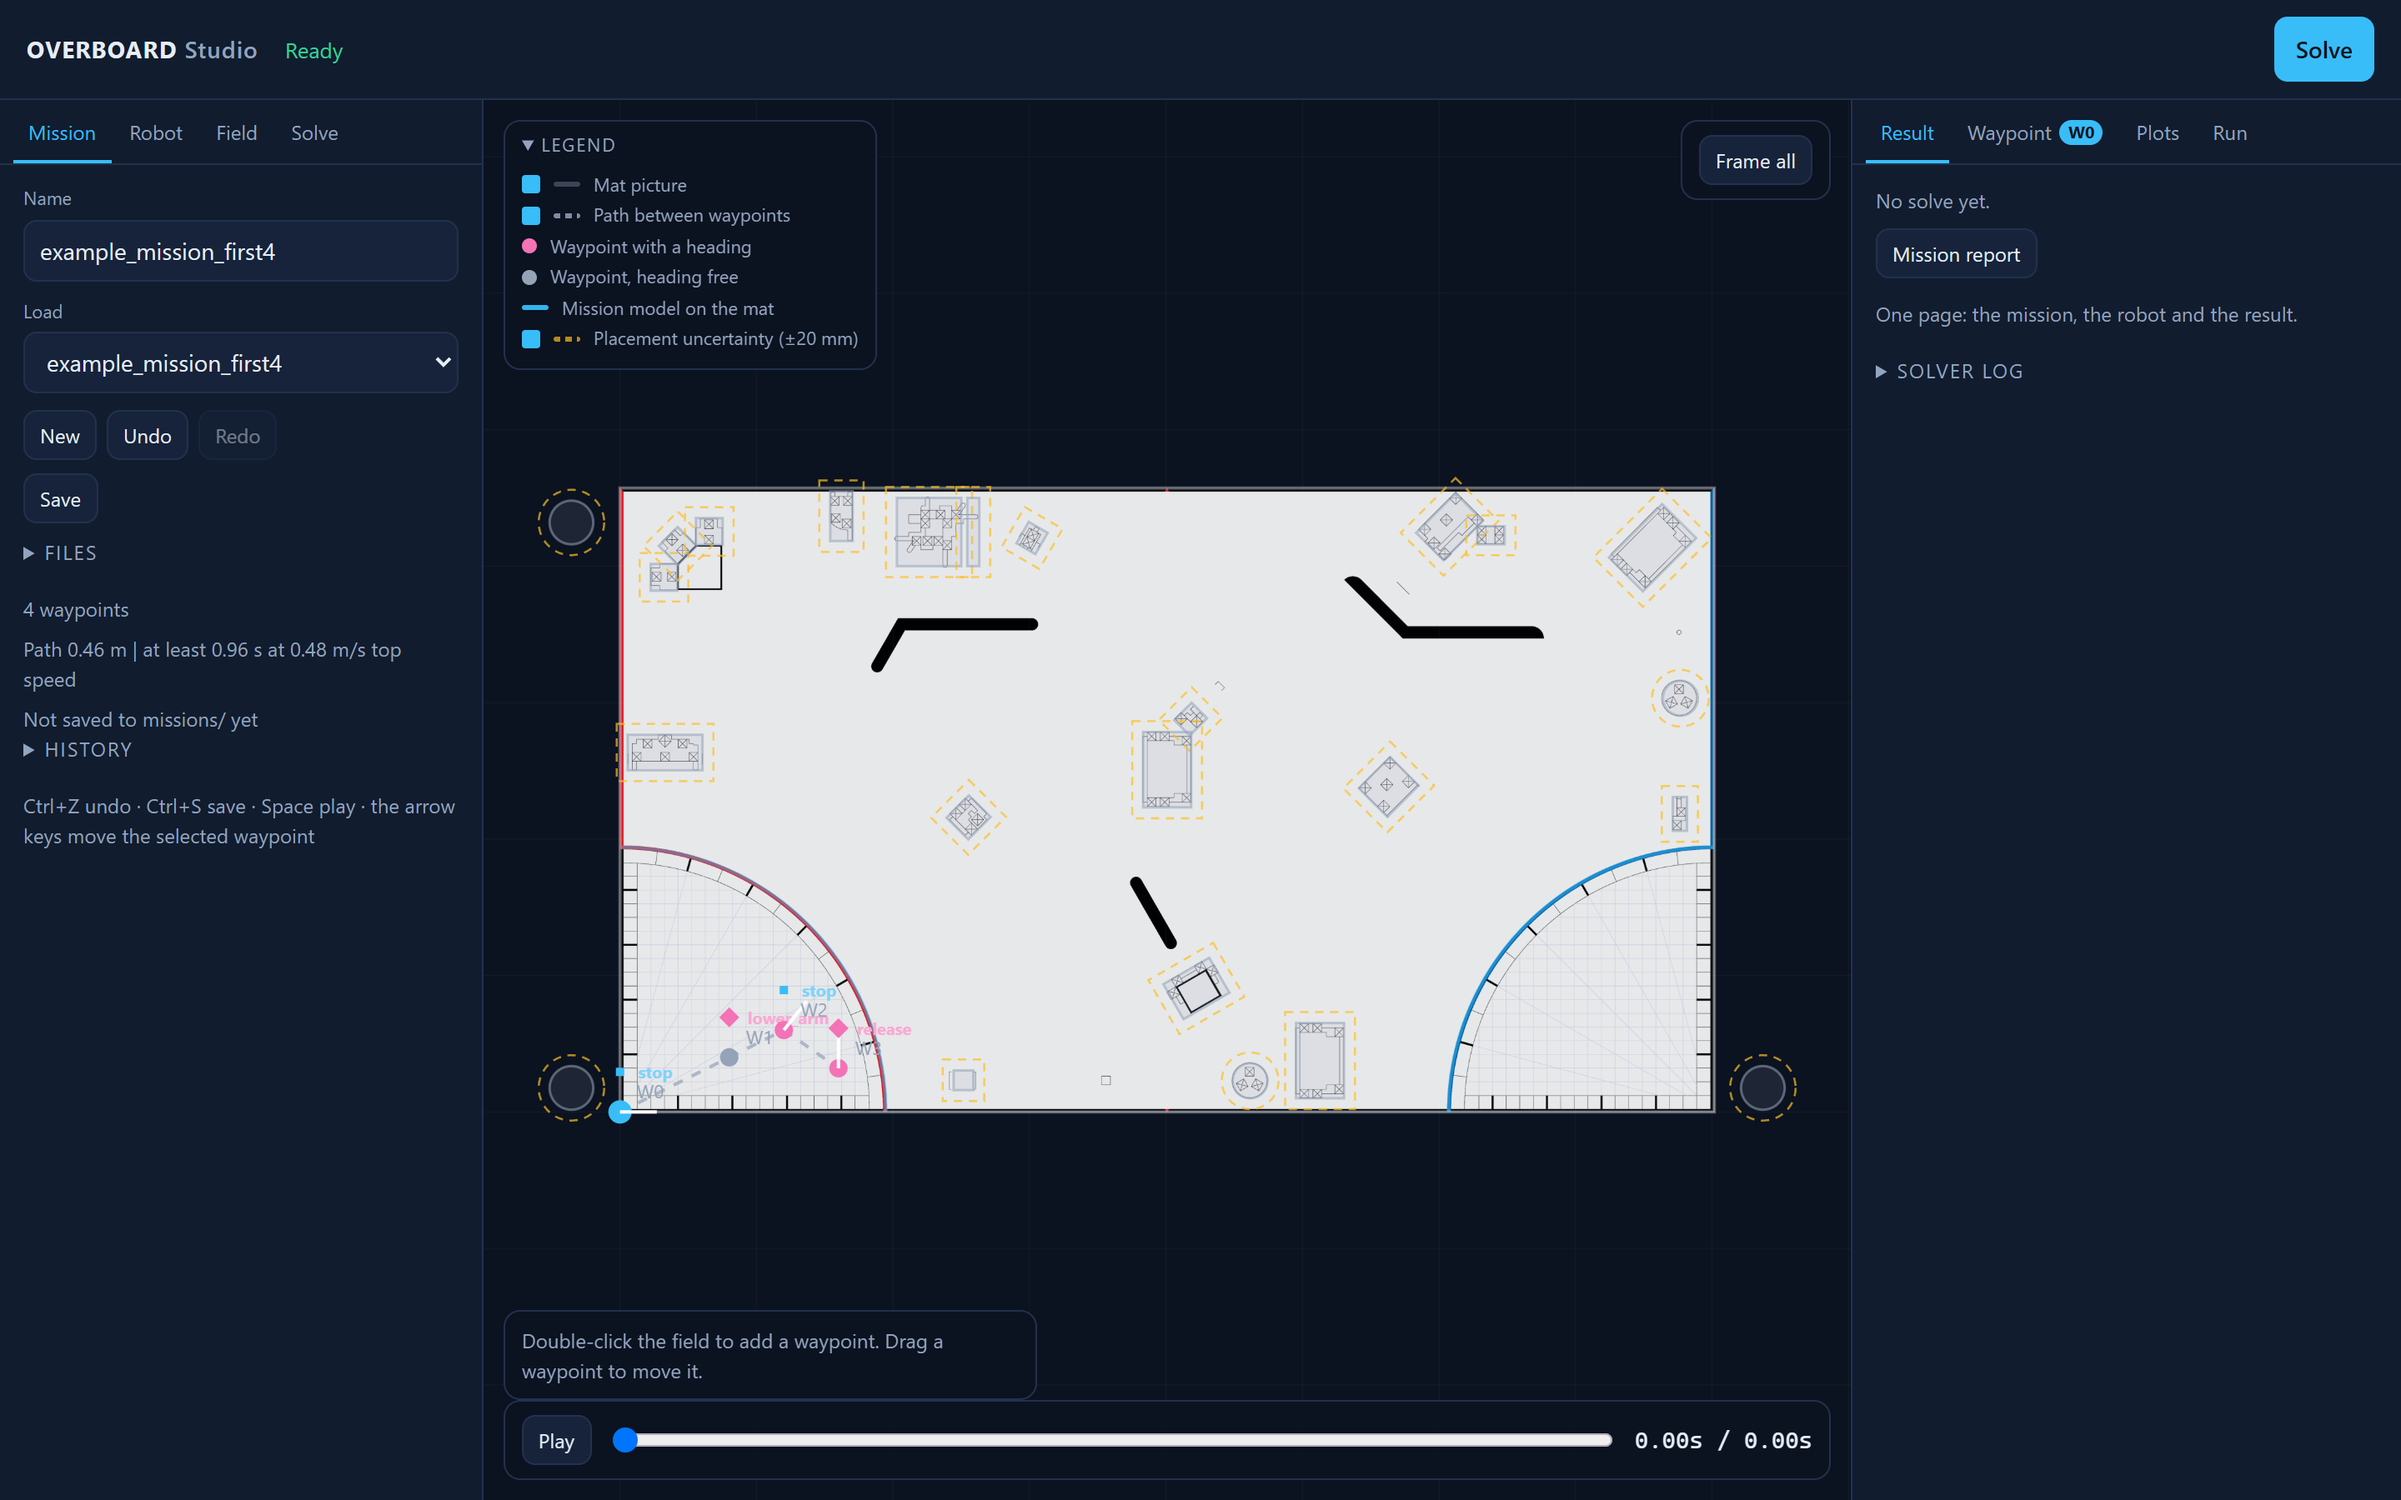
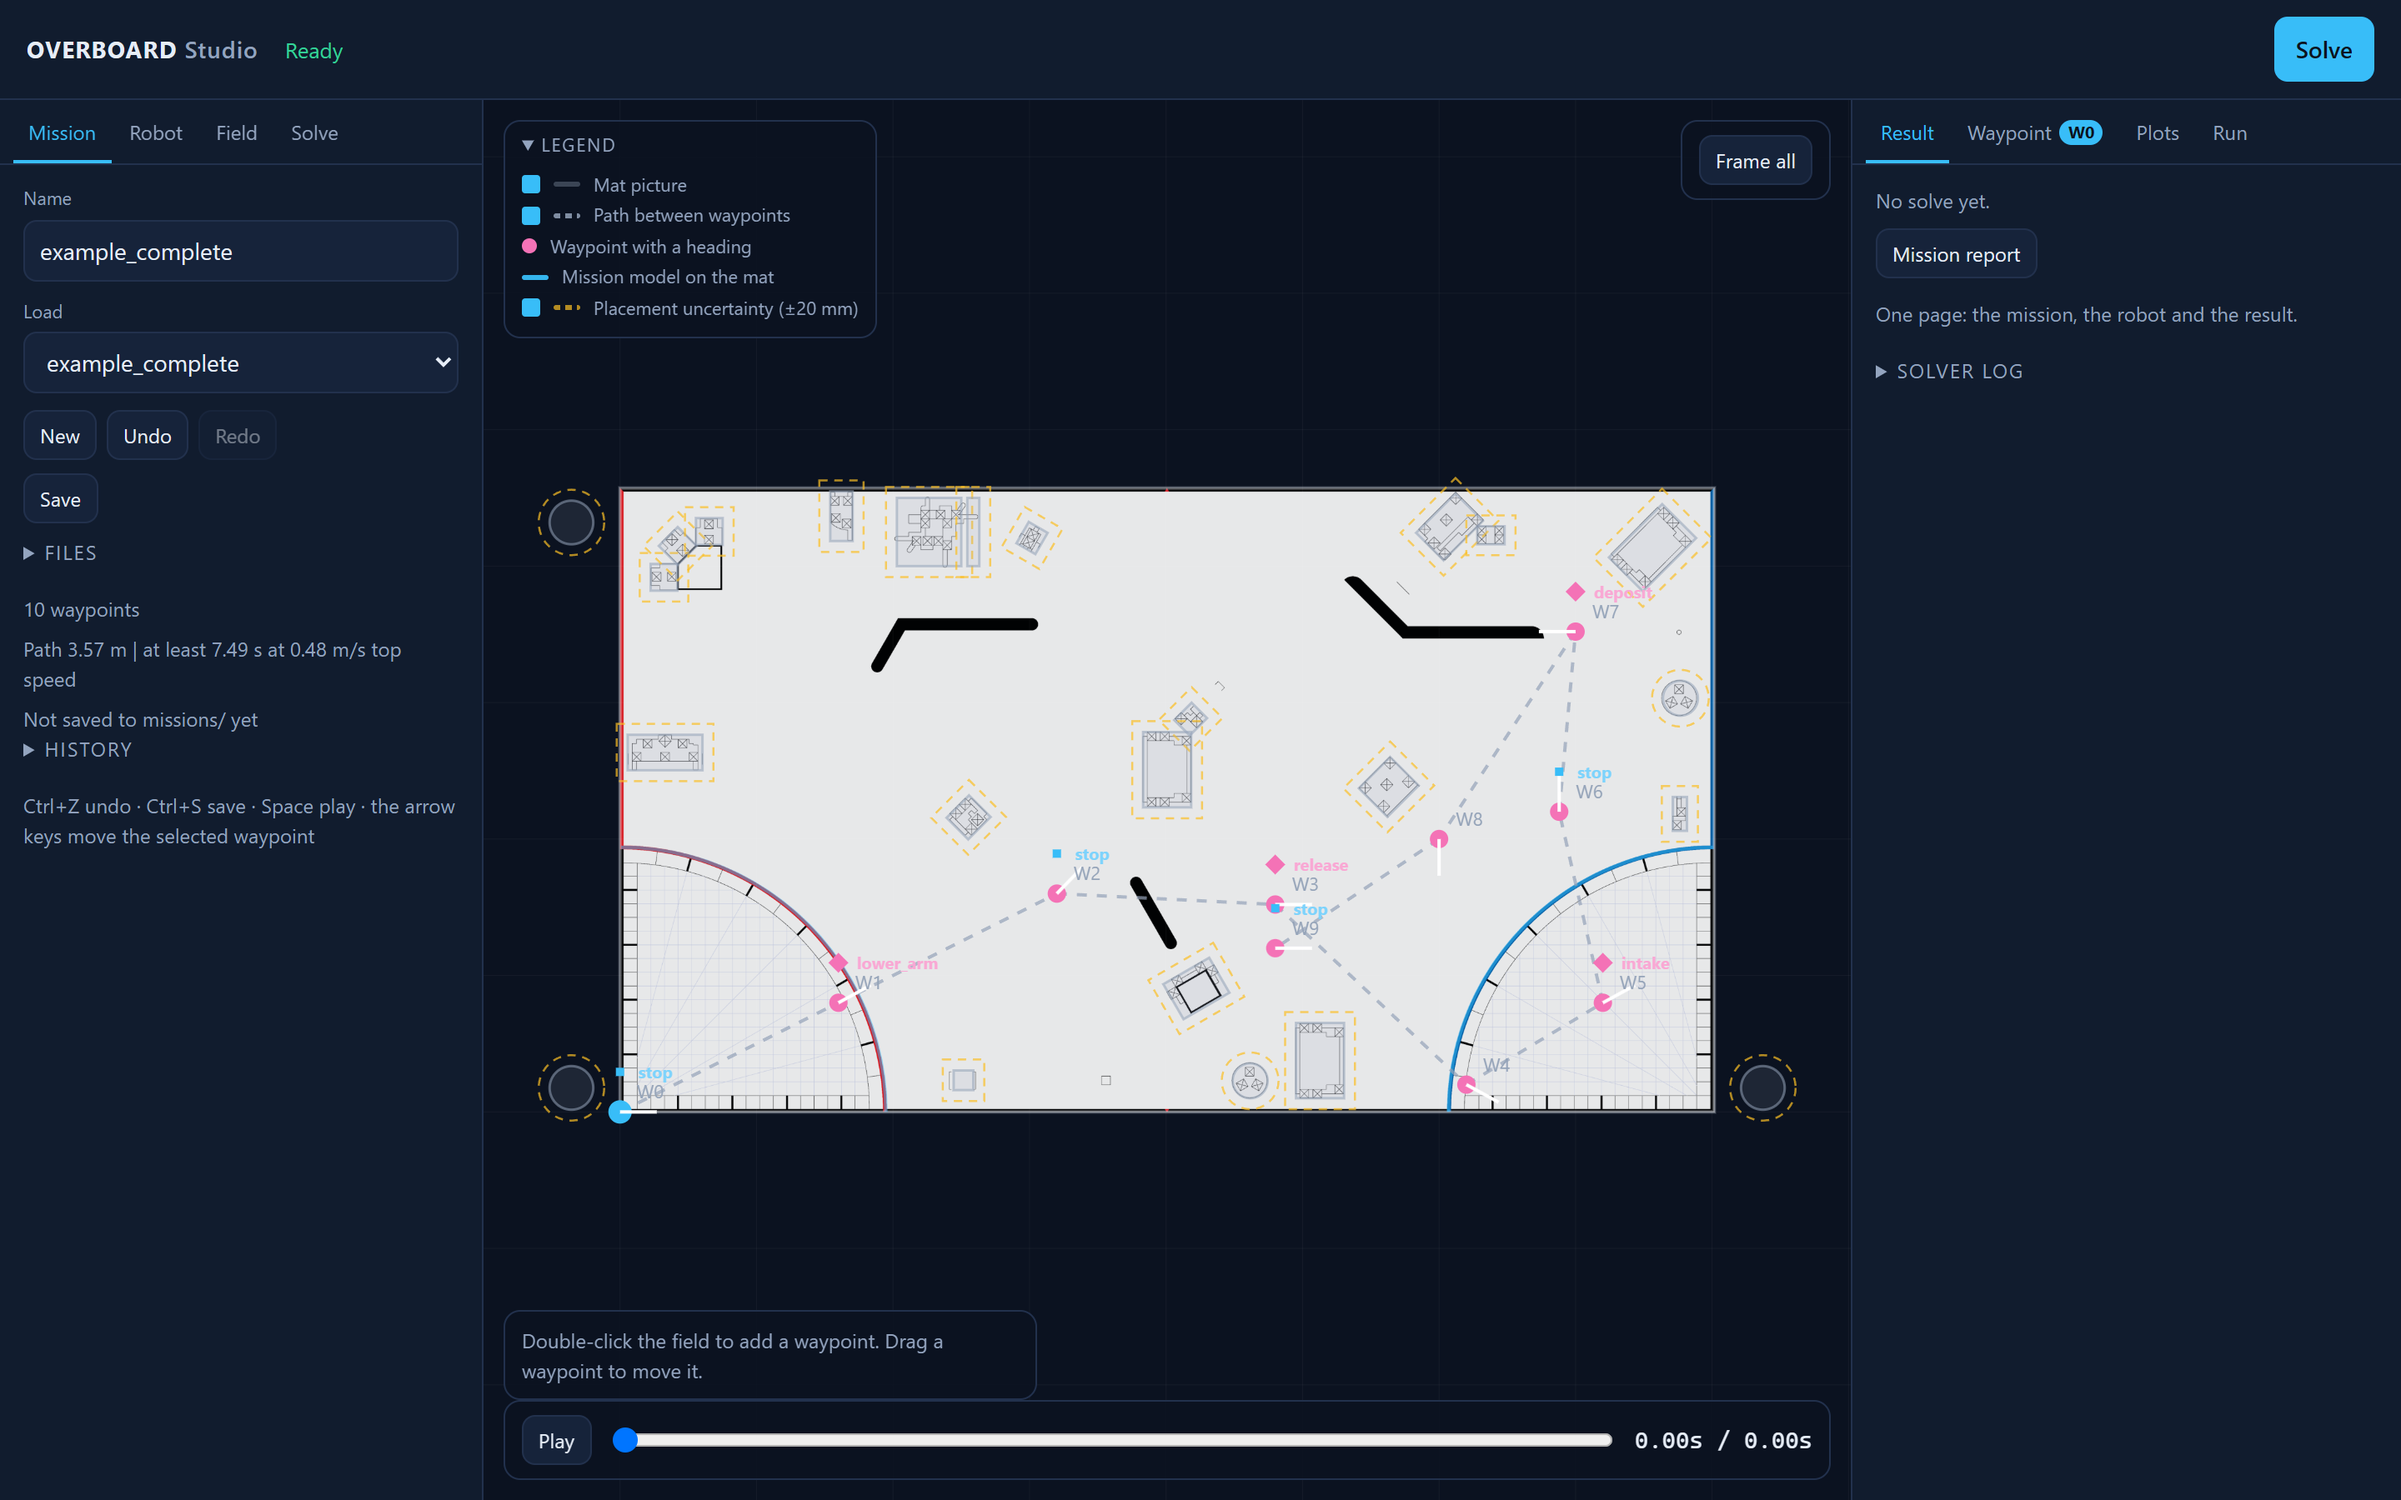
Show a real mission in the README's studio guide
The screenshots were a four-waypoint, 2.1 s path - a dot on the field. They are now the ten-waypoint complete mission: 3.70 m, eight stops, 12.4 s, no collisions. The header in the shot reads 'not validated' because the fast preset does not run the gate, and the tour says so.

diff --git a/README.md b/README.md
@@ -304,7 +304,8 @@ port from another program: if 8000 is busy it moves to the next free one.
    validates them: minutes, not seconds, because the reachability check is the
    cost - pick it only to ship.
 4. **Solve.** The header carries the answer whatever tab you are on:
-   `2.10 s | 0.47 m | envelope 0.6 cm - validated`.
+   `12.4 s | 3.7 m - not validated` for the fast preset, or the same line ending
+   `- validated` once the check has run.
 5. **Read the result.** The **Result** tab has the numbers, the envelope, the
    per-segment table and, when a check fails, the reason and the segment that
    failed, marked in red on the field. The **Plots** tab draws the profiles
@@ -313,7 +314,7 @@ port from another program: if 8000 is busy it moves to the next free one.
    controller JSON, the Python module, the stats and the one-page mission
    report. A validated plan can then be pushed from the **Run** tab.
 
-![A validated solve: the Solve tab's levers on the left, the numbers and the per-segment table on the right](docs/images/studio/studio-solved.png)
+![A fast solve of the same mission: 3.70 m and eight stops in 12.4 s, so the header and the Result tab both say it was not checked](docs/images/studio/studio-solved.png)
 
 The page is three columns. The left one is what you set (tabs: **Mission**, **Robot**, **Field**, **Solve**), the canvas in the middle is the work, and the right one is what you read (tabs: **Result**, **Waypoint**, **Plots**, **Run**). The line in the header always carries the result, so a tabbed column can never hide the answer, and the field carries a key to its own colours. Every control is listed in [docs/STUDIO_UI_INVENTORY.md](docs/STUDIO_UI_INVENTORY.md), with the structure and how to extend it.
 
